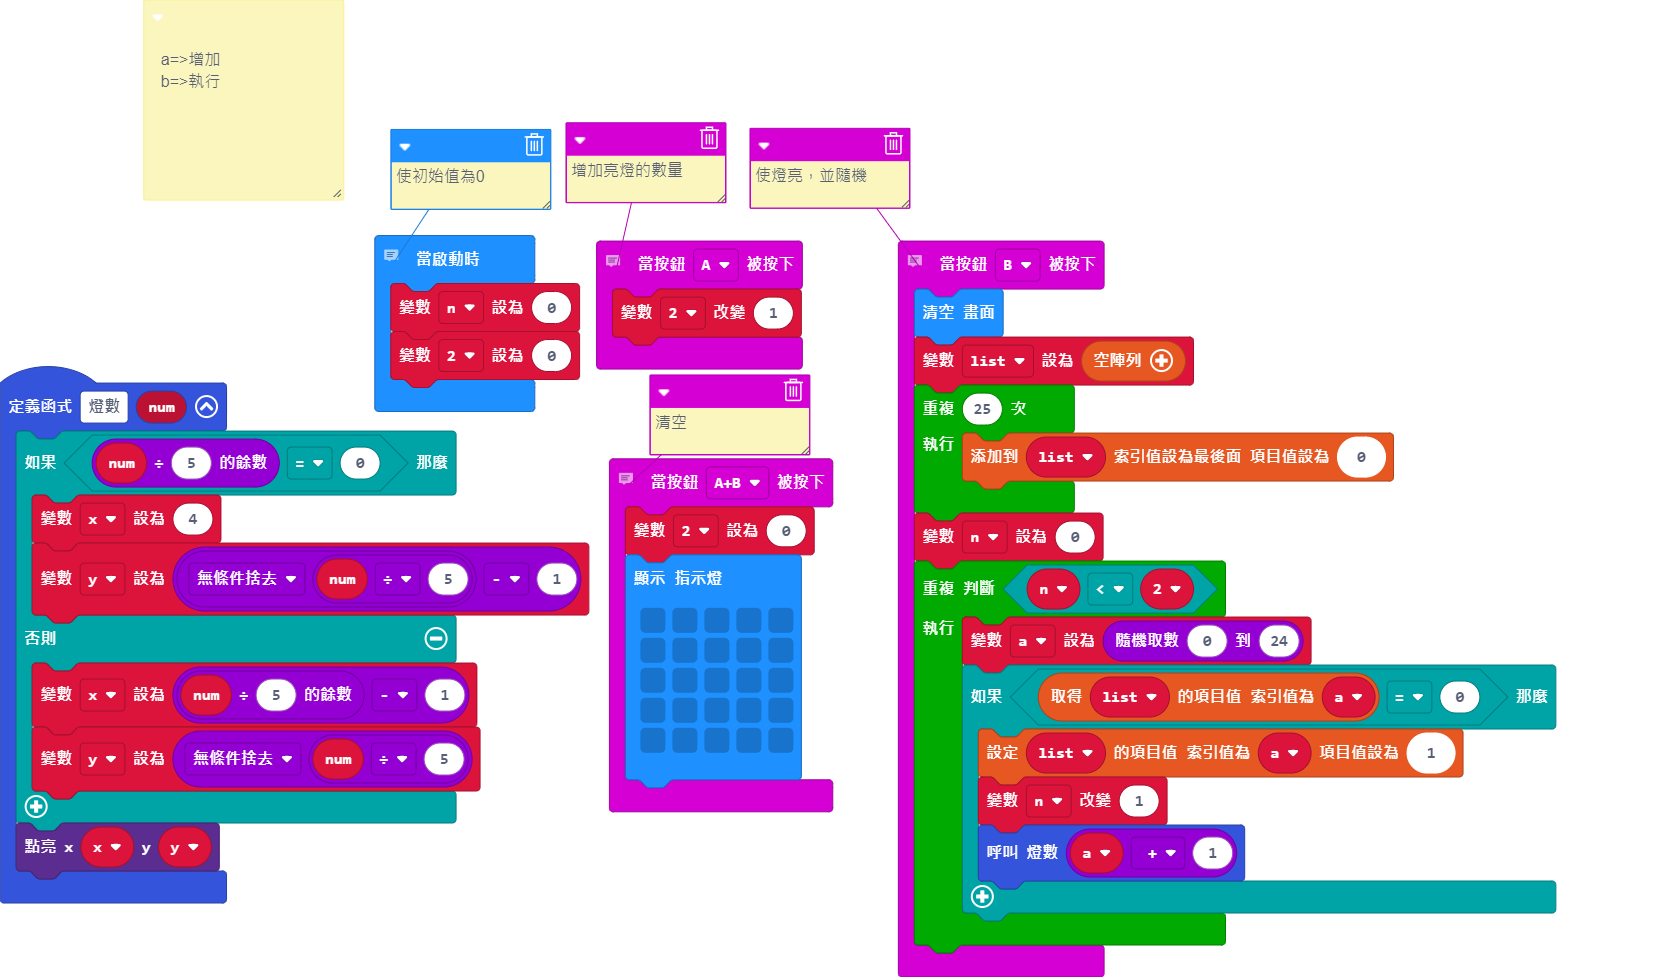
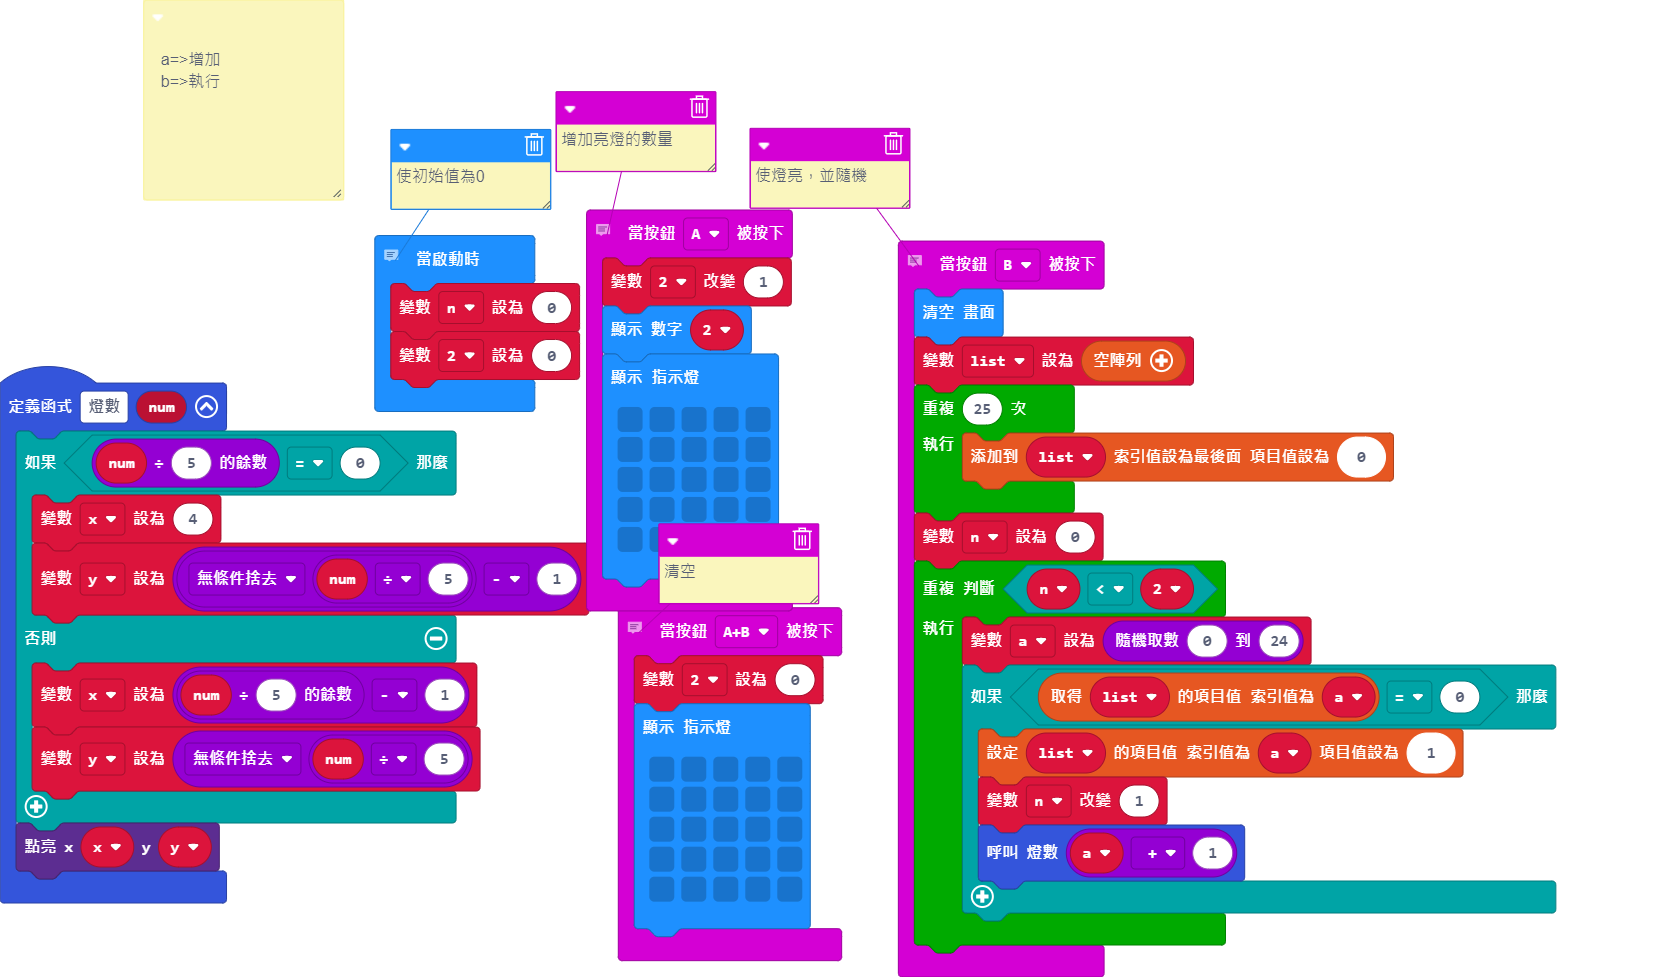
更新 main.blocks, main.ts

Changed region(s): [[0.3072, 0.0921, 0.5223, 1.0]]

diff --git a/main.ts b/main.ts
@@ -16,6 +16,14 @@ function 燈數 (num: number) {
 // 增加亮燈的數量
 input.onButtonPressed(Button.A, function () {
     _2 += 1
+    basic.showNumber(_2)
+    basic.showLeds(`
+        . . . . .
+        . . . . .
+        . . . . .
+        . . . . .
+        . . . . .
+        `)
 })
 // 清空
 input.onButtonPressed(Button.AB, function () {
